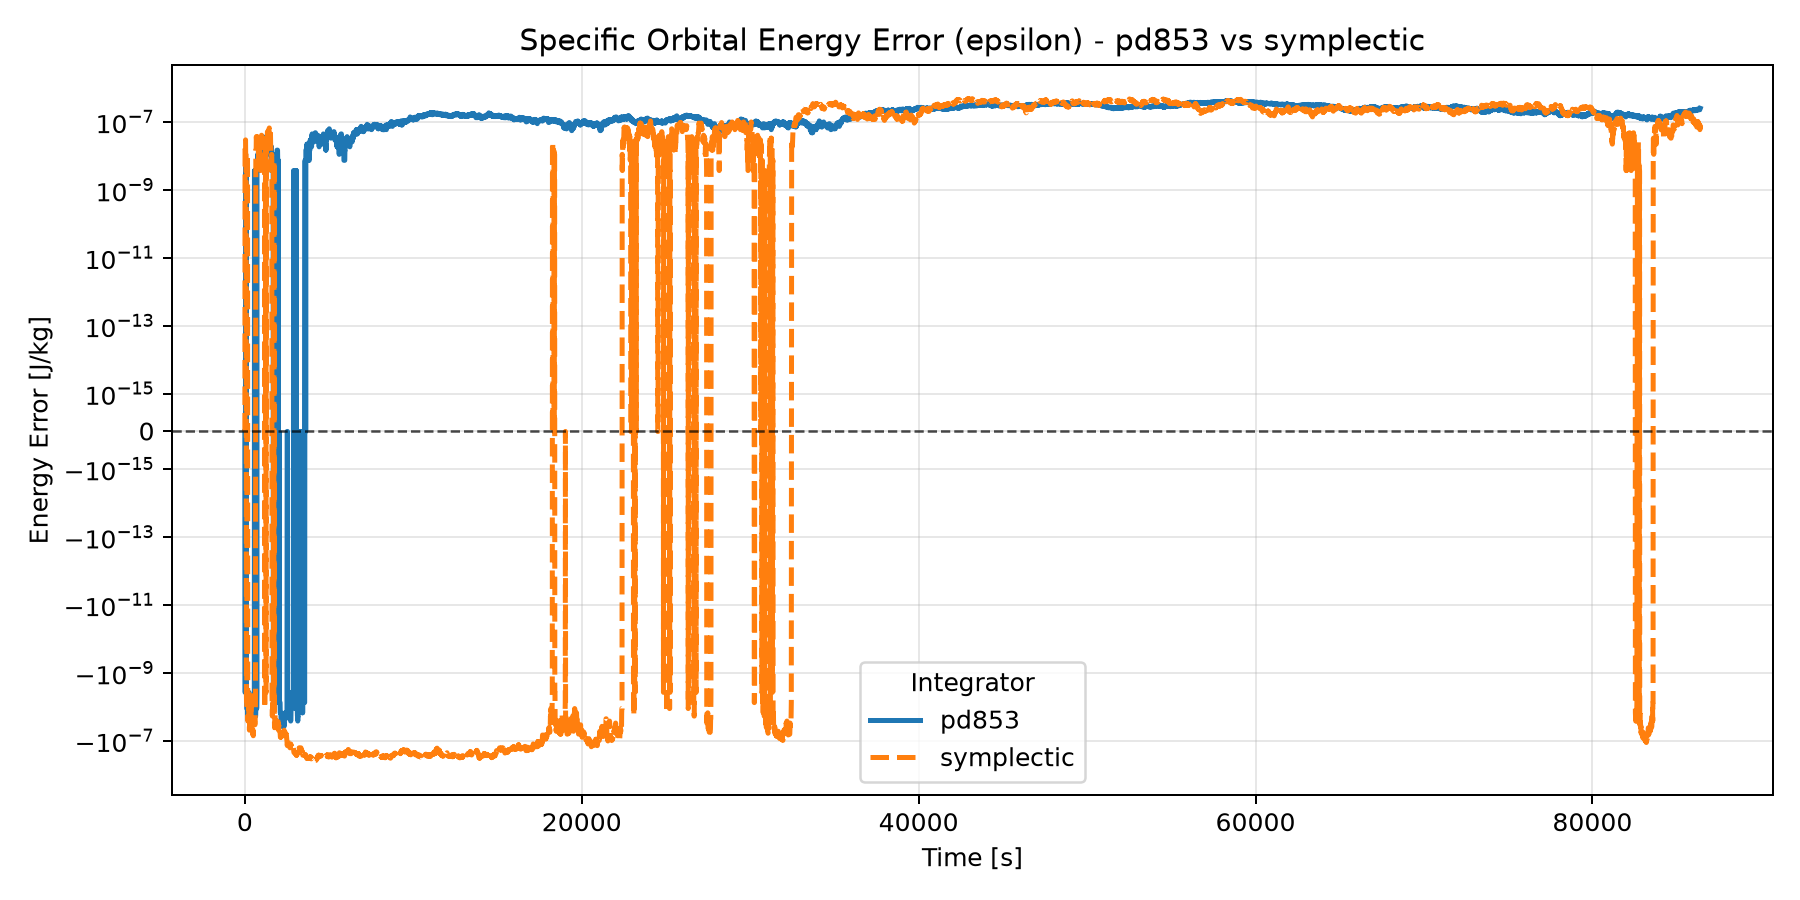
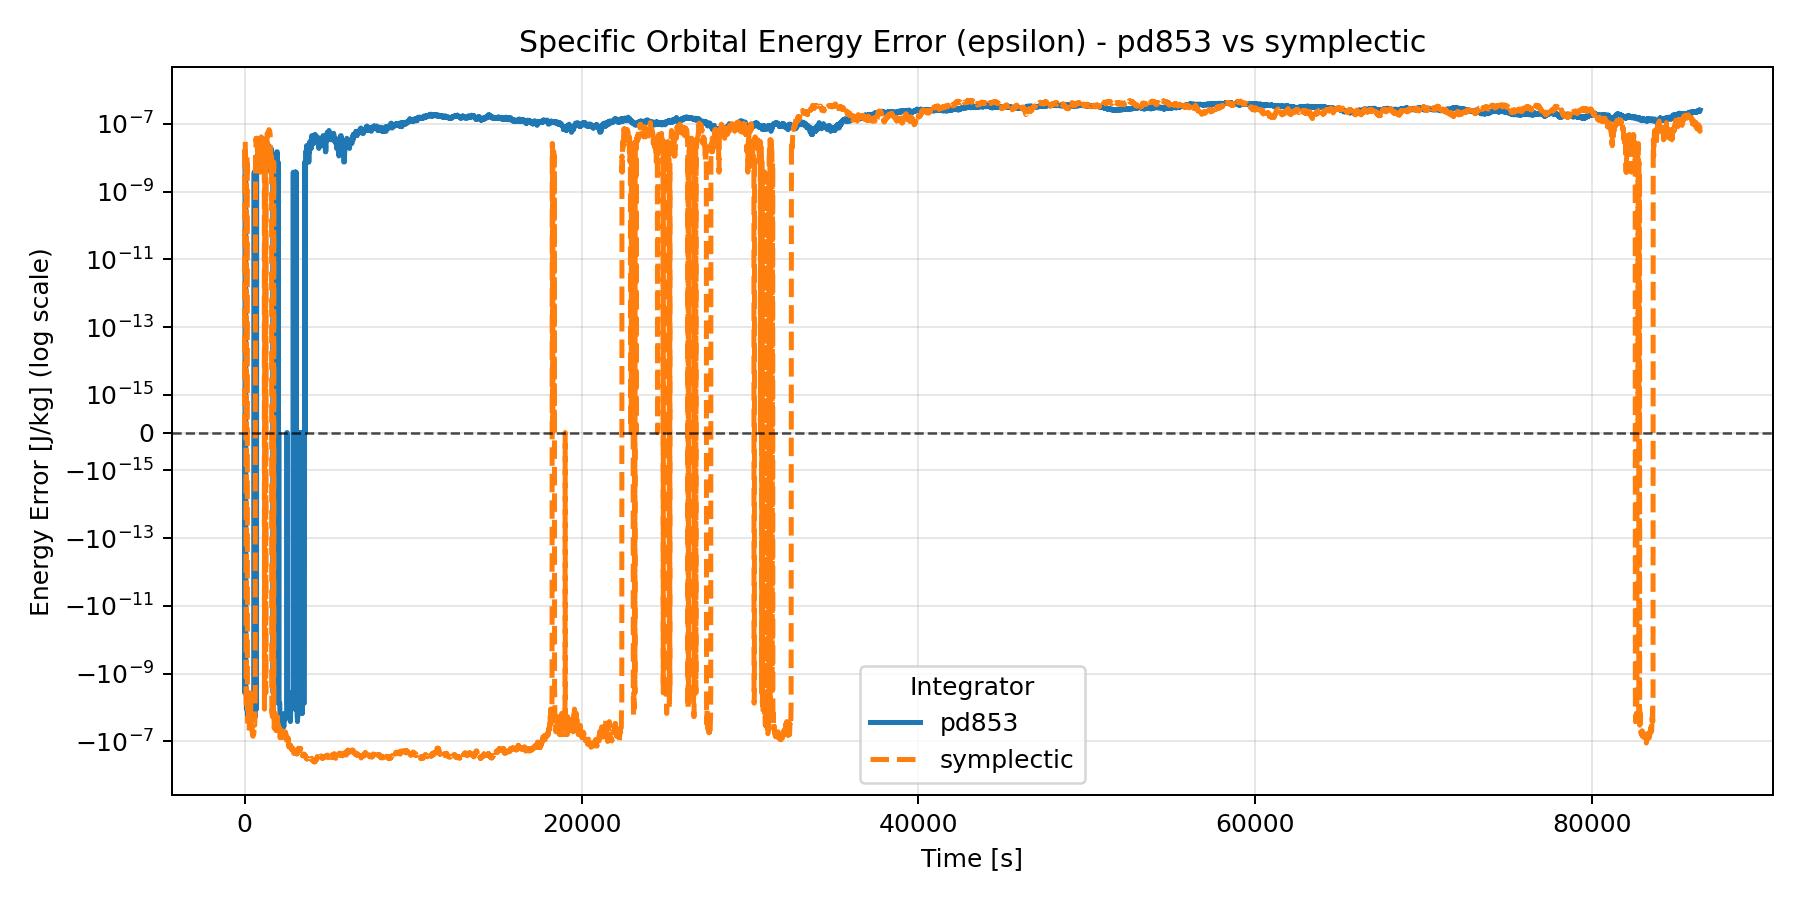
feat: enhance comparative plots with log scale option and update simulation logs

diff --git a/validation/compare_analytical.py b/validation/compare_analytical.py
@@ -352,7 +352,7 @@ def _save_plot(fig, path: Path) -> None:
     plt.close(fig)
 
 
-def create_comparison_plots(output_dir, orbit_params, integrator="pd853", stk_csv=None, show=False):
+def create_comparison_plots(output_dir, orbit_params, integrator="pd853", stk_csv=None, show=False, log_scale=True):
     """Create a validation plot set comparing the integrator against analytical and STK references.
 
     Parameters
@@ -432,7 +432,7 @@ def create_comparison_plots(output_dir, orbit_params, integrator="pd853", stk_cs
         )
         return r_ana_interp, v_ana_interp, h_interp, energy_interp
 
-    def _plot_series(title: str, y_label: str, y_values: np.ndarray, save_name: str, x_values=None, stky=None, stklab="STK"):
+    def _plot_series(title: str, y_label: str, y_values: np.ndarray, save_name: str, x_values=None, stky=None, stklab="STK", log_y: bool = False):
         """Plot a single data series.
 
         The integrator curve is plotted *after* the STK curve so that the
@@ -449,7 +449,9 @@ def create_comparison_plots(output_dir, orbit_params, integrator="pd853", stk_cs
         ax.axhline(0.0, color="black", linestyle="--", linewidth=1.0, alpha=0.7)
         ax.set_title(title)
         ax.set_xlabel("Time [s]")
-        ax.set_ylabel(y_label)
+        ax.set_ylabel(y_label + " (log scale)" if log_y else y_label)
+        if log_y:
+            ax.set_yscale("symlog", linthresh=1e-15)
         ax.grid(True, alpha=0.3)
         ax.legend()
         _save_plot(fig, validation_dir / save_name)
@@ -523,44 +525,54 @@ def create_comparison_plots(output_dir, orbit_params, integrator="pd853", stk_cs
 
     _plot_series("Position Error in x", "Position Error x [m]", r_err[:, 0], "x_position_error.png",
                  x_values=stk_time if stk_data is not None else None,
-                 stky=stk_position_error[:, 0] if stk_position_error is not None else None)
+                 stky=stk_position_error[:, 0] if stk_position_error is not None else None,
+                 log_y=log_scale)
 
     _plot_series("Position Error in y", "Position Error y [m]", r_err[:, 1], "y_position_error.png",
                  x_values=stk_time if stk_data is not None else None,
-                 stky=stk_position_error[:, 1] if stk_position_error is not None else None)
+                 stky=stk_position_error[:, 1] if stk_position_error is not None else None,
+                 log_y=log_scale)
 
     _plot_series("Position Error in z", "Position Error z [m]", r_err[:, 2], "z_position_error.png",
                  x_values=stk_time if stk_data is not None else None,
-                 stky=stk_position_error[:, 2] if stk_position_error is not None else None)
+                 stky=stk_position_error[:, 2] if stk_position_error is not None else None,
+                 log_y=log_scale)
 
     _plot_series("Position Error Magnitude", "Position Error ||r|| [m]", np.linalg.norm(r_err, axis=1), "position_error.png",
                  x_values=stk_time if stk_data is not None else None,
-                 stky=np.linalg.norm(stk_position_error, axis=1) if stk_position_error is not None else None)
+                 stky=np.linalg.norm(stk_position_error, axis=1) if stk_position_error is not None else None,
+                 log_y=log_scale)
 
     # Velocity error plots include STK overlay when available
-    _plot_series("Velocity Error in vx", "Velocity Error vx [m/s]", v_err[:, 0], "vx_error.png",
+    _plot_series("Velocity Error in vx", "Velocity Error vx [m/s] (log scale)", v_err[:, 0], "vx_error.png",
                  x_values=stk_time if stk_data is not None else None,
-                 stky=stk_velocity_error[:, 0] if stk_velocity_error is not None else None)
+                 stky=stk_velocity_error[:, 0] if stk_velocity_error is not None else None,
+                 log_y=log_scale)
 
-    _plot_series("Velocity Error in vy", "Velocity Error vy [m/s]", v_err[:, 1], "vy_error.png",
+    _plot_series("Velocity Error in vy", "Velocity Error vy [m/s] (log scale)", v_err[:, 1], "vy_error.png",
                  x_values=stk_time if stk_data is not None else None,
-                 stky=stk_velocity_error[:, 1] if stk_velocity_error is not None else None)
+                 stky=stk_velocity_error[:, 1] if stk_velocity_error is not None else None,
+                 log_y=log_scale)
 
-    _plot_series("Velocity Error in vz", "Velocity Error vz [m/s]", v_err[:, 2], "vz_error.png",
+    _plot_series("Velocity Error in vz", "Velocity Error vz [m/s] (log scale)", v_err[:, 2], "vz_error.png",
                  x_values=stk_time if stk_data is not None else None,
-                 stky=stk_velocity_error[:, 2] if stk_velocity_error is not None else None)
+                 stky=stk_velocity_error[:, 2] if stk_velocity_error is not None else None,
+                 log_y=log_scale)
 
-    _plot_series("Velocity Error Magnitude", "Velocity Error ||v|| [m/s]", np.linalg.norm(v_err, axis=1), "velocity_error.png",
+    _plot_series("Velocity Error Magnitude", "Velocity Error ||v|| [m/s] (log scale)", np.linalg.norm(v_err, axis=1), "velocity_error.png",
                  x_values=stk_time if stk_data is not None else None,
-                 stky=np.linalg.norm(stk_velocity_error, axis=1) if stk_velocity_error is not None else None)
+                 stky=np.linalg.norm(stk_velocity_error, axis=1) if stk_velocity_error is not None else None,
+                 log_y=log_scale)
 
-    _plot_series("Specific Angular Momentum Error", "Angular Momentum Error |h| [m^2/s]", h_err, "angular_momentum_error.png",
+    _plot_series("Specific Angular Momentum Error", "Angular Momentum Error |h| [m^2/s] (log scale)", h_err, "angular_momentum_error.png",
                  x_values=stk_time if stk_data is not None else None,
-                 stky=stk_h_error if stk_h_error is not None else None)
+                 stky=stk_h_error if stk_h_error is not None else None,
+                 log_y=log_scale)
 
-    _plot_series("Specific Orbital Energy Error", "Energy Error [J/kg]", energy_err, "energy_error.png",
+    _plot_series("Specific Orbital Energy Error", "Energy Error [J/kg] (log scale)", energy_err, "energy_error.png",
                  x_values=stk_time if stk_data is not None else None,
-                 stky=stk_energy_error if stk_energy_error is not None else None)
+                 stky=stk_energy_error if stk_energy_error is not None else None,
+                 log_y=log_scale)
 
     print(f"  Comparison CSV saved to {comparison_file}")
     print(f"  Validation plots saved to {validation_dir}")

diff --git a/validation/comparative_plots.py b/validation/comparative_plots.py
@@ -156,6 +156,7 @@ def _plot_component_overlay(
     t_values: np.ndarray,
     save_name: str,
     out_dir: Path,
+    log_y: bool = False,
 ) -> None:
     """Create a 3-panel overlay plot for x/y/z or vx/vy/vz component errors.
 
@@ -181,7 +182,9 @@ def _plot_component_overlay(
             linestyle=_INTEGRATOR_STYLES["symplectic"]["linestyle"],
         )
         ax.axhline(0.0, color="black", linestyle="--", linewidth=0.8, alpha=0.7)
-        ax.set_ylabel(f"{label} [{y_label_unit}]")
+        if log_y:
+            ax.set_yscale("symlog", linthresh=1e-15)
+        ax.set_ylabel(f"{label} [{y_label_unit}]" + (" (log scale)" if log_y else ""))
         ax.grid(True, alpha=0.3)
         ax.legend(loc="best", fontsize="small")
     axes[-1].set_xlabel("Time [s]")
@@ -323,6 +326,7 @@ def create_comparative_plots(
     output_dir: str | Path | None = None,
     orbit_params=None,
     show: bool = False,
+    log_scale: bool = True,
 ) -> Path:
     """Create overlay comparison plots between pd853 and symplectic integrators.
 
@@ -380,7 +384,7 @@ def create_comparative_plots(
     # --- Magnitude overlay plots ----------------------------------------
     _plot_overlay(
         "Position Error Magnitude (||r||) - pd853 vs symplectic",
-        "Position Error ||r|| [m]",
+        "Position Error ||r|| [m] (log scale)",
         {
             "pd853": pd853_df["r_error_norm_m"].to_numpy(float),
             "symplectic": symplectic_df["r_error_norm_m"].to_numpy(float),
@@ -388,12 +392,12 @@ def create_comparative_plots(
         common_t,
         "comparative_position_error.png",
         out_dir,
-        log_y=True,
+        log_y=log_scale,
     )
 
     _plot_overlay(
         "Velocity Error Magnitude (||v||) - pd853 vs symplectic",
-        "Velocity Error ||v|| [m/s]",
+        "Velocity Error ||v|| [m/s] (log scale)",
         {
             "pd853": pd853_df["v_error_norm_ms"].to_numpy(float),
             "symplectic": symplectic_df["v_error_norm_ms"].to_numpy(float),
@@ -401,12 +405,12 @@ def create_comparative_plots(
         common_t,
         "comparative_velocity_error.png",
         out_dir,
-        log_y=True,
+        log_y=log_scale,
     )
 
     _plot_overlay(
         "Specific Angular Momentum Error (|h|) - pd853 vs symplectic",
-        "Angular Momentum Error |h| [m^2/s]",
+        "Angular Momentum Error |h| [m^2/s] (log scale)",
         {
             "pd853": pd853_df["|h|_error_m2s"].to_numpy(float),
             "symplectic": symplectic_df["|h|_error_m2s"].to_numpy(float),
@@ -414,12 +418,12 @@ def create_comparative_plots(
         common_t,
         "comparative_angular_momentum_error.png",
         out_dir,
-        log_y=True,
+        log_y=log_scale,
     )
 
     _plot_overlay(
         "Specific Orbital Energy Error (epsilon) - pd853 vs symplectic",
-        "Energy Error [J/kg]",
+        "Energy Error [J/kg] (log scale)",
         {
             "pd853": pd853_df["energy_error_Jkg"].to_numpy(float),
             "symplectic": symplectic_df["energy_error_Jkg"].to_numpy(float),
@@ -427,7 +431,7 @@ def create_comparative_plots(
         common_t,
         "comparative_energy_error.png",
         out_dir,
-        log_y=True,
+        log_y=log_scale,
     )
 
     # --- Component overlay plots ----------------------------------------
@@ -442,6 +446,7 @@ def create_comparative_plots(
         common_t,
         "comparative_position_components.png",
         out_dir,
+        log_y=log_scale,
     )
 
     _plot_component_overlay(
@@ -455,6 +460,7 @@ def create_comparative_plots(
         common_t,
         "comparative_velocity_components.png",
         out_dir,
+        log_y=log_scale,
     )
 
     # --- Summary statistics ---------------------------------------------

diff --git a/leo_simulator.py b/leo_simulator.py
@@ -273,7 +273,7 @@ def _run_simulation_core(output_dir: Path, log_file: Path, integrator: str) -> N
     print("\nComparison Plots:")
     stk_csv_path = Path(__file__).resolve().parent / "STK_input" / "Satellite1_Results.csv"
     print(f"  STK comparison source: {stk_csv_path}")
-    create_comparison_plots(output_dir, orbit, integrator=integrator, stk_csv=stk_csv_path)
+    create_comparison_plots(output_dir, orbit, integrator=integrator, stk_csv=stk_csv_path, show=False, log_scale=True)
 
     print("\nConservation Plots:")
     plot_conservation(t_export, y_export, orbit, output_dir)

diff --git a/validation/compare_integrators.py b/validation/compare_integrators.py
@@ -138,6 +138,7 @@ def run_comparison(
         output_dir=comp_dir,
         orbit_params=orbit_params,
         show=show,
+        log_scale=True,
     )
 
     # Phase 3 - list the generated outputs.
